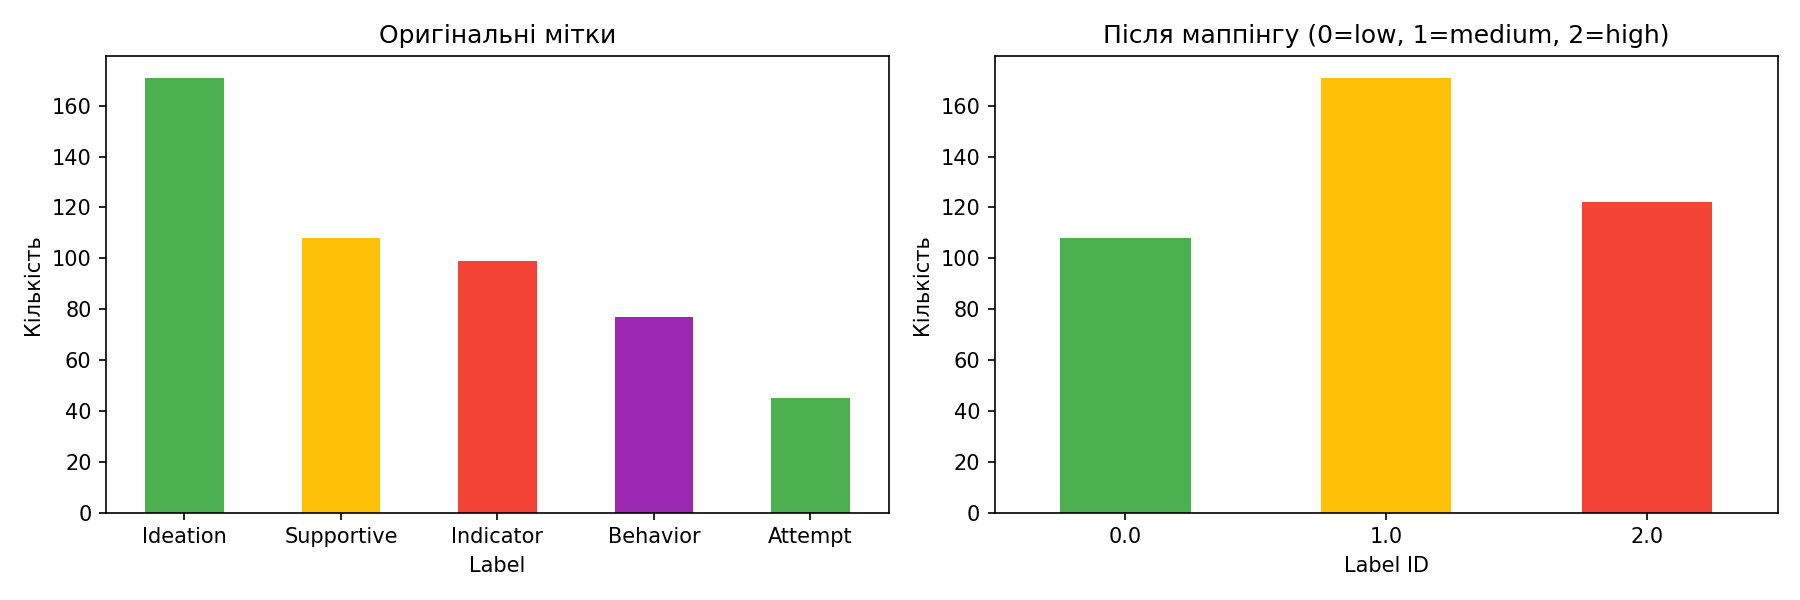
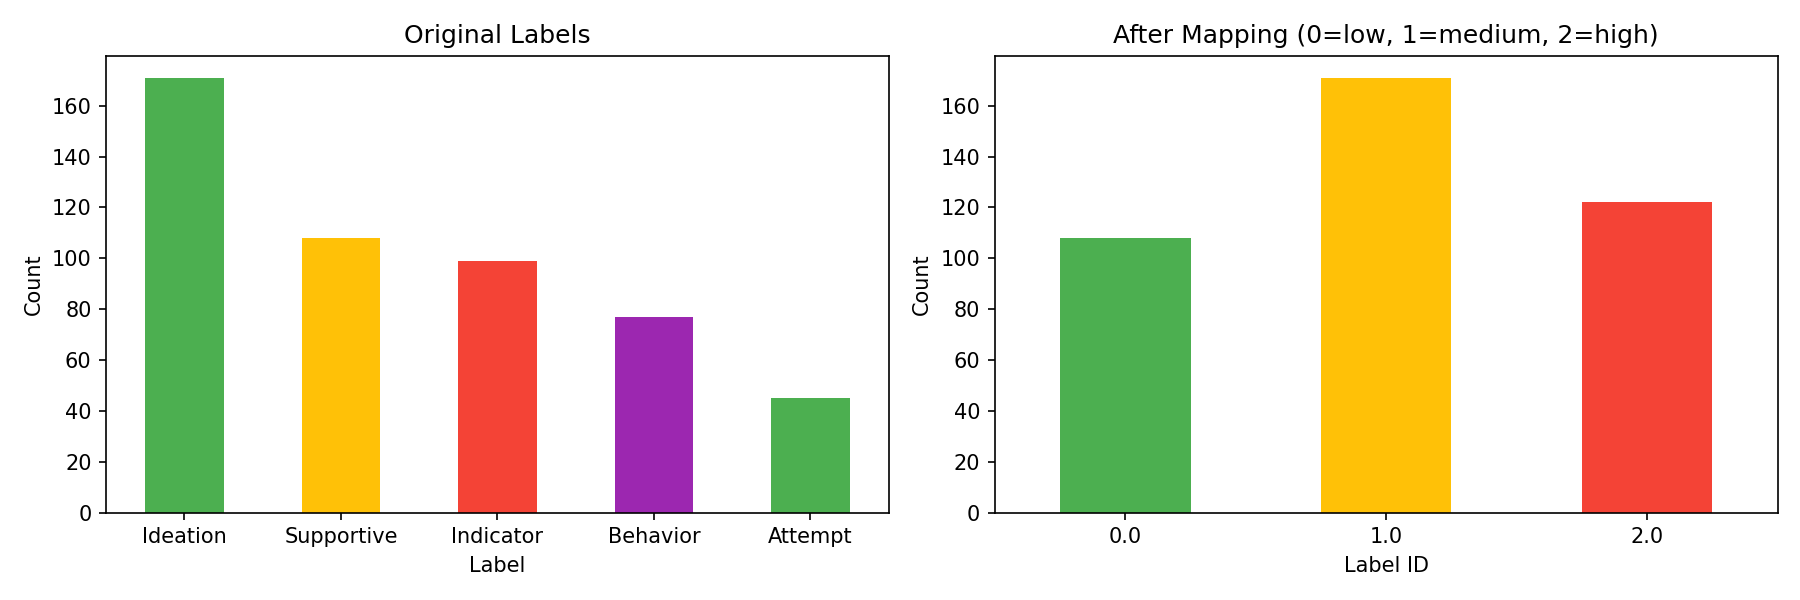
MLS-0011 cleaned, added comments and renamed analyze_dataset

diff --git a/src/train/01_prepare_cssrs_dataset.py b/src/train/01_prepare_cssrs_dataset.py
@@ -1,0 +1,127 @@
+import ast
+
+import matplotlib.pyplot as plt
+import pandas as pd
+
+"""
+01_prepare_cssrs_dataset.py
+────────────────────────
+Step 1 of 4 in the SafePoint ML training pipeline.
+
+Loads and prepares the C-SSRS (Columbia Suicide Severity Rating Scale) dataset —
+500 anonymized Reddit posts labeled by practicing psychiatrists.
+
+Source:
+    Kaggle: thedevastator/c-ssrs-labeled-suicidality-in-500-anonymized-reddit-posts
+    File:   500_anonymized_Reddit_users_posts_labels.csv
+
+What this script does:
+    1. Loads the raw CSV and prints class distribution
+    2. Parses the Post column (stored as a Python list string) into plain text
+    3. Analyzes text length (words and estimated DistilBERT tokens)
+    4. Reports how many records exceed the 512-token model limit
+    5. Maps original labels to numeric risk classes:
+           Supportive → 0 (LOW)
+           Ideation   → 1 (MEDIUM)
+           Behavior   → 2 (HIGH)
+           Attempt    → 2 (HIGH)
+    6. Saves a class distribution chart → data/label_distribution.png
+    7. Saves the cleaned dataset        → data/dataset_clean.csv
+
+Output:
+    data/dataset_clean.csv   — used by merge_all.py (Step 4)
+
+Next step:
+    Run 02_prepare_reddit_dataset.py (Step 2)
+"""
+
+DATA_DIR = r"d:\Develop\General\safe-point\ml-service\data"
+CSV_PATH = rf"{DATA_DIR}\500_anonymized_Reddit_users_posts_labels - 500_anonymized_Reddit_users_posts_labels.csv"
+
+# -- 1. Loading
+df = pd.read_csv(CSV_PATH)
+print(f"Total number of records: {len(df)}")
+print(f"Columns: {df.columns.tolist()}")
+print()
+
+# -- 2. Class distribution
+print("=== Class Distribution ===")
+label_counts = df["Label"].value_counts()
+print(label_counts)
+print()
+
+
+# -- 3. Parse Post (array of strings -> single text)
+def parse_post(raw):
+    try:
+        messages = ast.literal_eval(raw)
+        return " ".join(messages) if isinstance(messages, list) else str(raw)
+    except Exception:
+        return str(raw)
+
+
+df["text"] = df["Post"].apply(parse_post)
+
+# -- 4. Text length analysis
+df["char_len"] = df["text"].apply(len)
+df["word_len"] = df["text"].apply(lambda x: len(x.split()))
+
+print("=== Text Length (characters) ===")
+print(df.groupby("Label")["char_len"].describe()[["mean", "min", "max", "50%"]])
+print()
+
+print("=== Text Length (words) ===")
+print(df.groupby("Label")["word_len"].describe()[["mean", "min", "max", "50%"]])
+print()
+
+# -- 5. Threshold of 512 tokens (~400 words)
+# DistilBERT: 1 token ~ 0.75 words
+df["estimated_tokens"] = (df["word_len"] / 0.75).astype(int)
+over_limit = df[df["estimated_tokens"] > 512]
+print(f"=== Records exceeding 512 tokens: {len(over_limit)} ({len(over_limit) / len(df) * 100:.1f}%) ===")
+print(over_limit["Label"].value_counts())
+print()
+
+# -- 6. Empty records
+print("=== Empty Records ===")
+print(df["text"].isnull().sum(), "null")
+print((df["text"] == "").sum(), "empty strings")
+print()
+
+# -- 7. Label mapping
+label_map = {
+    "Supportive": 0,  # low
+    "Ideation": 1,  # medium
+    "Behavior": 2,  # high
+    "Attempt": 2,  # high
+}
+df["label_id"] = df["Label"].map(label_map)
+
+print("=== After mapping (0=low, 1=medium, 2=high) ===")
+print(df["label_id"].value_counts())
+print()
+
+# -- 8. Class distribution plot
+fig, axes = plt.subplots(1, 2, figsize=(12, 4))
+
+label_counts.plot(kind="bar", ax=axes[0], color=["#4CAF50", "#FFC107", "#F44336", "#9C27B0"])
+axes[0].set_title("Original Labels")
+axes[0].set_xlabel("Label")
+axes[0].set_ylabel("Count")
+axes[0].tick_params(axis='x', rotation=0)
+
+df["label_id"].value_counts().sort_index().plot(
+    kind="bar", ax=axes[1], color=["#4CAF50", "#FFC107", "#F44336"]
+)
+axes[1].set_title("After Mapping (0=low, 1=medium, 2=high)")
+axes[1].set_xlabel("Label ID")
+axes[1].set_ylabel("Count")
+axes[1].tick_params(axis='x', rotation=0)
+
+plt.tight_layout()
+plt.savefig(rf"{DATA_DIR}\label_distribution.png", dpi=150)
+print(f"Plot saved: {DATA_DIR}\\label_distribution.png")
+
+# -- 9. Save cleaned dataset
+df[["text", "label_id", "Label"]].to_csv(rf"{DATA_DIR}\dataset_clean.csv", index=False)
+print(f"Cleaned dataset saved: {DATA_DIR}\\dataset_clean.csv")
